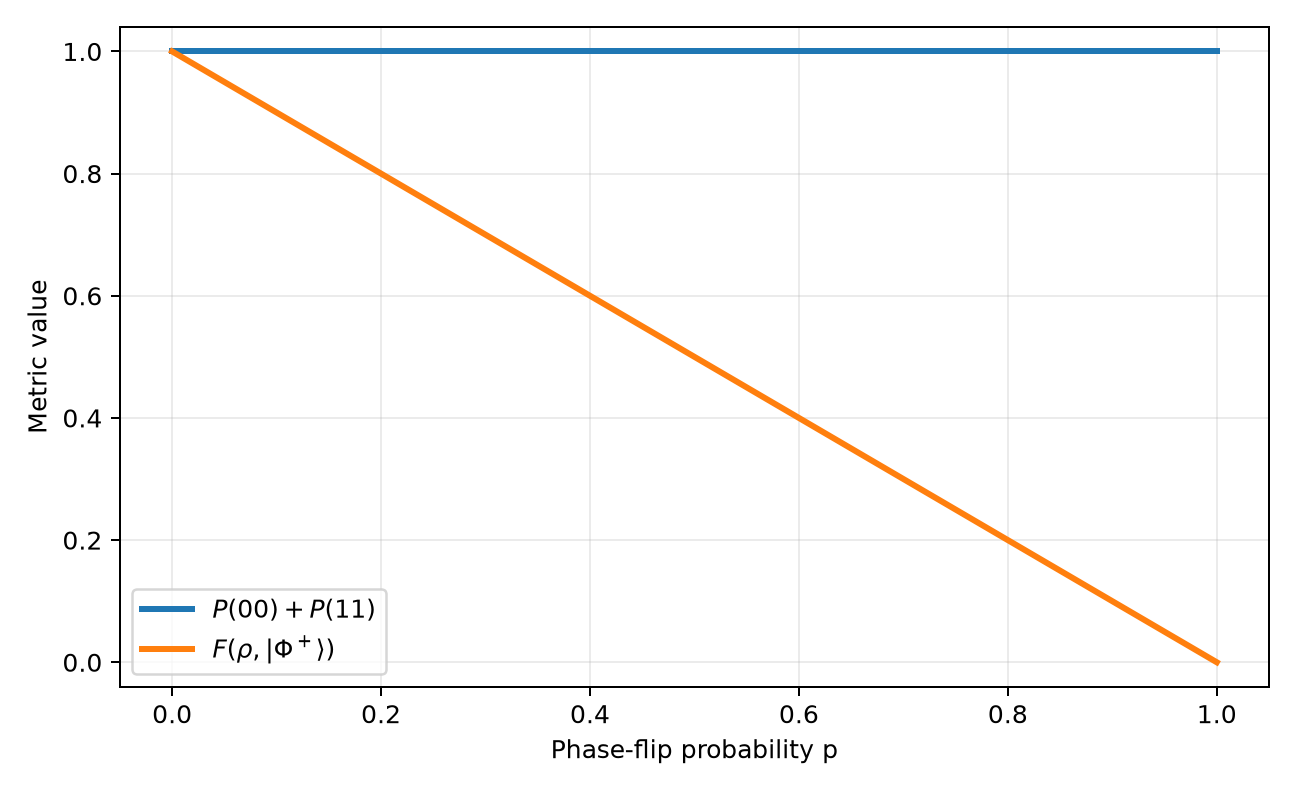
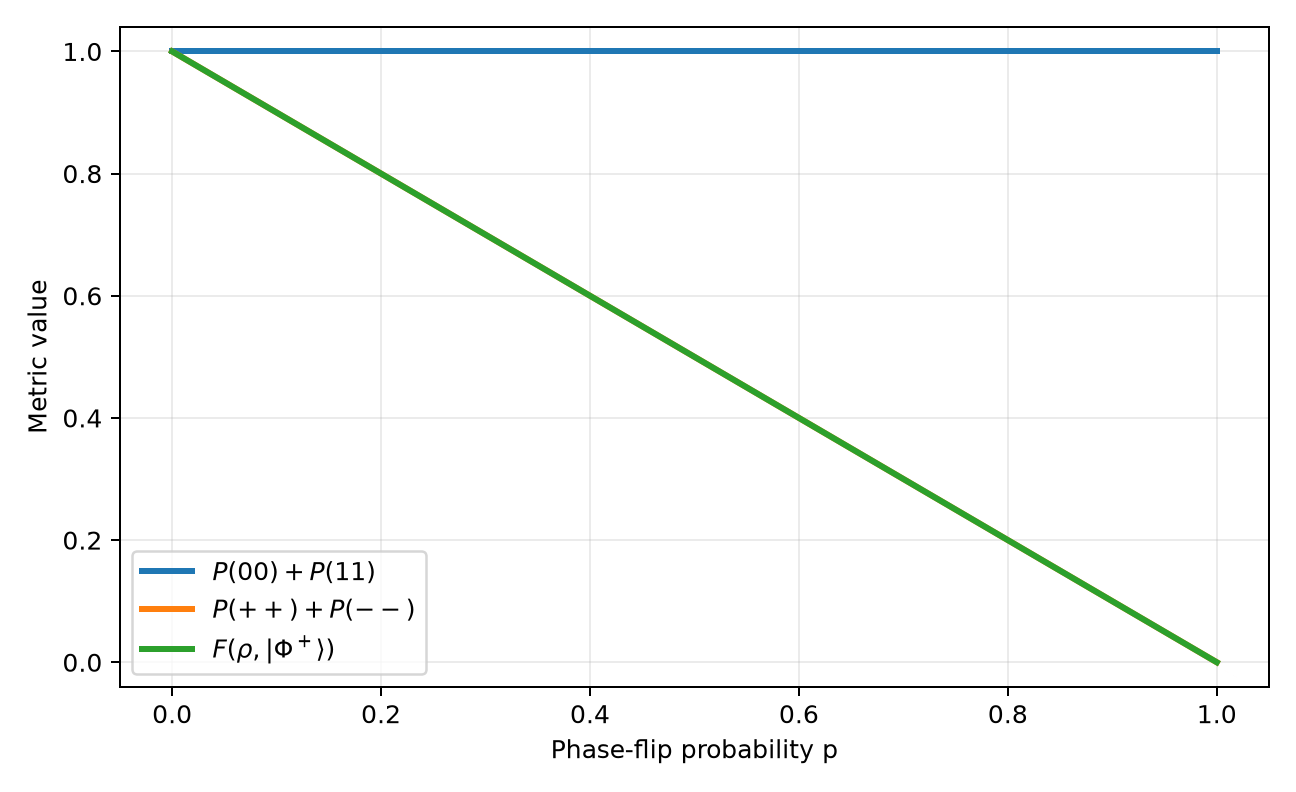
Export X-basis success in experiment data

diff --git a/paper/main.tex b/paper/main.tex
@@ -31,8 +31,8 @@ In this study, we investigated whether computational-basis success probability
 alone can correctly evaluate a phase-corrupted Bell-state circuit.  The ideal
 state $\ket{\Phi^+}=(\ket{00}+\ket{11})/\sqrt{2}$ was subjected to a phase-flip
 channel on the first qubit, and the error probability was swept from $p=0$ to
-$p=1$ in steps of $0.01$.  The computational-basis success probability,
-fidelity to $\ket{\Phi^+}$, and the signed and absolute values of the coherence
+$p=1$ in steps of $0.01$.  The computational-basis and X-basis correlated
+success probabilities, fidelity to $\ket{\Phi^+}$, and the signed and absolute values of the coherence
 element $\rho_{00,11}$ were compared.  The success probability remained equal
 to one for all 101 simulated values, while the fidelity decreased from one to
 zero and $\operatorname{Re}(\rho_{00,11})$ changed from $0.5$ to $-0.5$.  At
@@ -156,14 +156,25 @@ success probability reads only the diagonal populations:
 \begin{equation}
 S(p)=P(00)+P(11)=\rho_{00,00}(p)+\rho_{11,11}(p)=1. \label{eq:success}
 \end{equation}
-Second, because the reference state is pure, its fidelity is
+Second, phase-sensitive X-basis correlation is measured with
+\begin{equation}
+\Pi_X=\ket{++}\!\bra{++}+\ket{--}\!\bra{--},
+\end{equation}
+where $\ket{\pm}=(\ket{0}\pm\ket{1})/\sqrt{2}$. In the computational basis,
+the resulting success probability is
+\begin{align}
+S_X(p)&=\operatorname{Tr}(\Pi_X\rho(p)) \\
+&=\frac12\left(\rho_{00,00}+\rho_{11,11}+\rho_{00,11}+\rho_{11,00}\right) \\
+&=1-p. \label{eq:x-success}
+\end{align}
+The code evaluates this trace from the projector. Third, because the reference state is pure, its fidelity is
 \begin{align}
 F(p)&=\bra{\Phi^+}\rho(p)\ket{\Phi^+} \\
 &=(1-p)|\braket{\Phi^+|\Phi^+}|^2
 +p|\braket{\Phi^+|\Phi^-}|^2 \\
 &=1-p. \label{eq:fidelity}
 \end{align}
-Third, the coherence was evaluated using both its signed real part and its
+Fourth, the coherence was evaluated using both its signed real part and its
 magnitude:
 \begin{equation}
 \operatorname{Re}(\rho_{00,11})=\frac{1-2p}{2}, \qquad
@@ -179,16 +190,16 @@ probability was swept over
 p\in\{0,0.01,0.02,\ldots,0.99,1\},
 \end{equation}
 giving 101 deterministic density-matrix evaluations.  For each value of $p$,
-the program applied the Kraus map and recorded $S(p)$, $F(p)$,
+the program applied the Kraus map and recorded $S(p)$, $S_X(p)$, $F(p)$,
 $\operatorname{Re}(\rho_{00,11})$, and $|\rho_{00,11}|$.  Matplotlib was used
 to generate the figures, and the complete numerical sweep was stored in CSV
 format.  No random sampling, finite-shot measurement, or quantum software
 development kit was used.
 
-The implementation was checked using nine pytest tests.  These tests verify
-the Kraus completeness relation, unit trace, Hermiticity, positive
-semidefiniteness, the analytic end points, removal of coherence at $p=0.5$,
-and the predicted behavior of the success probability and fidelity.
+The implementation was checked with parameterized pytest tests. These tests
+verify the analytic density matrix and metric relations, Kraus completeness,
+unit trace, Hermiticity, positive semidefiniteness, invalid input rejection,
+X-basis projector evaluation, and deterministic CSV regeneration.
 
 \section*{Results}
 Representative numerical values from the 101-point sweep are shown in
@@ -201,30 +212,30 @@ Eqs.~\eqref{eq:success}--\eqref{eq:coherence} to the stored precision.
 signed coherence show that the target Bell state has changed.}
 \label{tab:results}
 \resizebox{\columnwidth}{!}{%
-\begin{tabular}{@{}ccccc@{}}
+\begin{tabular}{@{}cccccc@{}}
 \toprule
-$p$ & $S(p)$ & $F(p)$ & $\operatorname{Re}(\rho_{00,11})$ & $|\rho_{00,11}|$\\
+$p$ & $S(p)$ & $S_X(p)$ & $F(p)$ & $\operatorname{Re}(\rho_{00,11})$ & $|\rho_{00,11}|$\\
 \midrule
-0.00 & 1.00 & 1.00 &  0.50 & 0.50\\
-0.25 & 1.00 & 0.75 &  0.25 & 0.25\\
-0.50 & 1.00 & 0.50 &  0.00 & 0.00\\
-0.75 & 1.00 & 0.25 & -0.25 & 0.25\\
-1.00 & 1.00 & 0.00 & -0.50 & 0.50\\
+0.00 & 1.00 & 1.00 & 1.00 &  0.50 & 0.50\\
+0.25 & 1.00 & 0.75 & 0.75 &  0.25 & 0.25\\
+0.50 & 1.00 & 0.50 & 0.50 &  0.00 & 0.00\\
+0.75 & 1.00 & 0.25 & 0.25 & -0.25 & 0.25\\
+1.00 & 1.00 & 0.00 & 0.00 & -0.50 & 0.50\\
 \bottomrule
 \end{tabular}}
 \end{center}
 
-Figure~\ref{fig:success-fidelity} compares the success probability with the
-target-state fidelity.  The success probability remains equal to one over the
-entire interval, while the fidelity decreases linearly as the phase-flip
-probability increases.
+Figure~\ref{fig:success-fidelity} compares the computational-basis success,
+X-basis correlated success, and target-state fidelity. The computational-basis
+success remains equal to one over the entire interval, while the X-basis
+diagnostic and fidelity decrease linearly as the phase-flip probability increases.
 
 \begin{center}
 \centering
 \includegraphics[width=\columnwidth]{success_vs_fidelity.png}
-\captionof{figure}{Computational-basis success remains perfect while fidelity
-decreases from one to zero; therefore, the accepted outcomes do not certify
-the intended Bell state.}
+\captionof{figure}{Computational-basis success remains perfect, whereas the
+X-basis diagnostic and fidelity decrease from one to zero; the latter two
+measurements expose the phase error hidden by accepted computational outcomes.}
 \label{fig:success-fidelity}
 \end{center}
 
@@ -232,7 +243,7 @@ At $p=0.5$, Eq.~\eqref{eq:rho-p} becomes
 \begin{equation}
 \rho(0.5)=\frac12\ket{00}\!\bra{00}+\frac12\ket{11}\!\bra{11}.
 \end{equation}
-The off-diagonal coherence has vanished, but $S(0.5)=1$.  At $p=1$, the
+The off-diagonal coherence has vanished, but $S(0.5)=1$ whereas $S_X(0.5)=0.5$. At $p=1$, the
 state becomes $\ket{\Phi^-}\!\bra{\Phi^-}$.  It is fully coherent but
 orthogonal to the target, so $F(1)=0$ while $S(1)=1$.
 
@@ -258,7 +269,7 @@ phase-flip probability, including the incoherent state at $p=0.5$ and the
 orthogonal Bell state $\ket{\Phi^-}$ at $p=1$.  In contrast, fidelity and the
 signed coherence element detected the change in the quantum state.  Therefore,
 a benchmark intended to verify Bell-state preparation must include
-phase-sensitive information rather than relying only on accepted
+phase-sensitive information such as the X-basis diagnostic rather than relying only on accepted
 computational-basis outcomes.
 
 \section*{Discussion}

diff --git a/tests/test_phase_error_sweep_data.py b/tests/test_phase_error_sweep_data.py
@@ -1,0 +1,60 @@
+import csv
+from pathlib import Path
+from tempfile import TemporaryDirectory
+
+import pytest
+
+from src.phase_error_blind_spot import sweep, write_csv
+
+
+FIELDNAMES = [
+    "p",
+    "success_probability",
+    "x_basis_success_probability",
+    "fidelity",
+    "coherence_real",
+    "coherence_magnitude",
+]
+CSV_PATH = Path(__file__).parents[1] / "experiments" / "phase_error_sweep.csv"
+TEST_TEMPORARY_DIRECTORY = Path(__file__).parents[1] / ".pytest-tmp"
+
+
+def read_rows(path: Path) -> list[dict[str, str]]:
+    with path.open(newline="", encoding="utf-8") as stream:
+        return list(csv.DictReader(stream))
+
+
+def test_committed_sweep_csv_has_expected_schema_and_row_count():
+    with CSV_PATH.open(newline="", encoding="utf-8") as stream:
+        reader = csv.DictReader(stream)
+        rows = list(reader)
+
+    assert reader.fieldnames == FIELDNAMES
+    assert len(rows) == 101
+
+
+@pytest.mark.parametrize(
+    ("index", "expected"),
+    [
+        (0, [0.0, 1.0, 1.0, 1.0, 0.5, 0.5]),
+        (50, [0.5, 1.0, 0.5, 0.5, 0.0, 0.0]),
+        (100, [1.0, 1.0, 0.0, 0.0, -0.5, 0.5]),
+    ],
+)
+def test_committed_sweep_csv_matches_analytic_endpoint_and_midpoint_values(index, expected):
+    row = read_rows(CSV_PATH)[index]
+    values = [float(row[fieldname]) for fieldname in FIELDNAMES]
+
+    assert values == pytest.approx(expected, abs=1e-10)
+
+
+def test_csv_rebuild_is_deterministic():
+    TEST_TEMPORARY_DIRECTORY.mkdir(exist_ok=True)
+    with TemporaryDirectory(dir=TEST_TEMPORARY_DIRECTORY) as directory:
+        first = Path(directory) / "first.csv"
+        second = Path(directory) / "second.csv"
+
+        write_csv(sweep(), first)
+        write_csv(sweep(), second)
+
+        assert first.read_bytes() == second.read_bytes()

diff --git a/src/phase_error_blind_spot.py b/src/phase_error_blind_spot.py
@@ -111,6 +111,7 @@ def write_figures(rows: list[dict[str, float]], directory: Path) -> None:
 
     plt.figure(figsize=(7.2, 4.4))
     plt.plot(p, [row["success_probability"] for row in rows], label=r"$P(00)+P(11)$", linewidth=2.4)
+    plt.plot(p, [row["x_basis_success_probability"] for row in rows], label=r"$P(++)+P(--)$", linewidth=2.4)
     plt.plot(p, [row["fidelity"] for row in rows], label=r"$F(\rho,|\Phi^+\rangle)$", linewidth=2.4)
     plt.xlabel("Phase-flip probability p")
     plt.ylabel("Metric value")
@@ -141,7 +142,7 @@ def _write_figures_with_pillow(rows: list[dict[str, float]], directory: Path) ->
 
     width, height = 1296, 792
     margin = {"left": 110, "right": 45, "top": 55, "bottom": 95}
-    colors = [(31, 119, 180), (214, 39, 40)]
+    colors = [(31, 119, 180), (44, 160, 44), (214, 39, 40)]
     font = ImageFont.load_default(size=22)
     small = ImageFont.load_default(size=18)
 
@@ -187,6 +188,7 @@ def _write_figures_with_pillow(rows: list[dict[str, float]], directory: Path) ->
         "Metric value",
         [
             ("P(00) + P(11)", [row["success_probability"] for row in rows]),
+            ("P(++) + P(--)", [row["x_basis_success_probability"] for row in rows]),
             ("Fidelity to Phi+", [row["fidelity"] for row in rows]),
         ],
         0.0,

diff --git a/README.md b/README.md
@@ -8,7 +8,7 @@ $$
 |\Phi^+\rangle=\frac{|00\rangle+|11\rangle}{\sqrt{2}},
 $$
 
-and four quantities are compared over 101 values of the phase-flip probability. The computational-basis success probability remains equal to one, while fidelity and signed coherence reveal that the target state has been lost.
+and five quantities are compared over 101 values of the phase-flip probability. The computational-basis success probability remains equal to one, while the X-basis diagnostic, fidelity, and signed coherence reveal that the target state has been lost.
 
 This is an AI-assisted research artifact whose derivations, source code, tests, generated data, and limitations are exposed for review. It is a deterministic classical simulation, not quantum-hardware data.
 
@@ -25,12 +25,17 @@ the simulated metrics agree with
 $$
 S(p)=P(00)+P(11)=1,
 \qquad
+S_X(p)=P(++)+P(--)=1-p,
+\qquad
 F(p)=1-p,
 \qquad
+\mathrm{Re}(\rho_{00,11})=\frac{1-2p}{2}.
 $$
 
-**$${Re}(\rho_{00,11})=\frac{1-2p}{2}.$$**
-
+The X-basis correlated-success diagnostic is evaluated with the projector
+$\Pi_X=|++\rangle\langle++|+|--\rangle\langle--|$, rather than by hardcoding
+the analytic relation. It falls from one to zero under phase flips, whereas
+the computational-basis metric $S(p)$ remains one.
 
 ![Computational-basis success remains one while fidelity decreases.](paper/figures/success_vs_fidelity.png)
 
@@ -42,7 +47,7 @@ The complete derivation, numerical table, limitations, and references are in the
 - `paper/figures/`: figures generated by the experiment code.
 - `paper/main.pdf`: compiled report.
 - `src/phase_error_blind_spot.py`: density-matrix simulation and artifact generation.
-- `tests/`: tests for the channel, physical state, analytic endpoints, and metrics.
+- `tests/`: analytic, physical-invariant, X-basis, and generated-data regression tests.
 - `experiments/phase_error_sweep.csv`: complete 101-point sweep.
 - `notes/`: research question, pre-execution hypothesis, result, and interpretation boundary.
 

diff --git a/notes/2026-10-29-analytic-phase-flip-record.md b/notes/2026-10-29-analytic-phase-flip-record.md
@@ -117,3 +117,17 @@ The code constructs `Pi_X` by outer products of the `|++>` and `|-->`
 vectors, then evaluates `Tr(Pi_X rho)`.  Endpoint and dense-grid tests compare
 that matrix computation to `1-p`; they also establish the contrast
 `S_Z(p)=1` and `S_X(p)=1-p`.
+
+## Task 4: Reproducible sweep schema
+
+The deterministic sweep now exports six columns in this order:
+`p`, `success_probability`, `x_basis_success_probability`, `fidelity`,
+`coherence_real`, and `coherence_magnitude`. A generated-data test verifies
+the exact schema, 101 rows, the `p=0` and `p=1` endpoints, and the
+representative `p=0.5` row. It also writes two independently rebuilt CSV
+files and compares their bytes, establishing deterministic reproduction.
+
+The CSV, README, report, code identifiers, and tests use
+`x_basis_success_probability` in code/data and $S_X(p)=P(++)+P(--)=1-p$ in
+mathematical prose. The existing `success_probability` remains the
+computational-basis quantity $S_Z(p)=P(00)+P(11)$.
